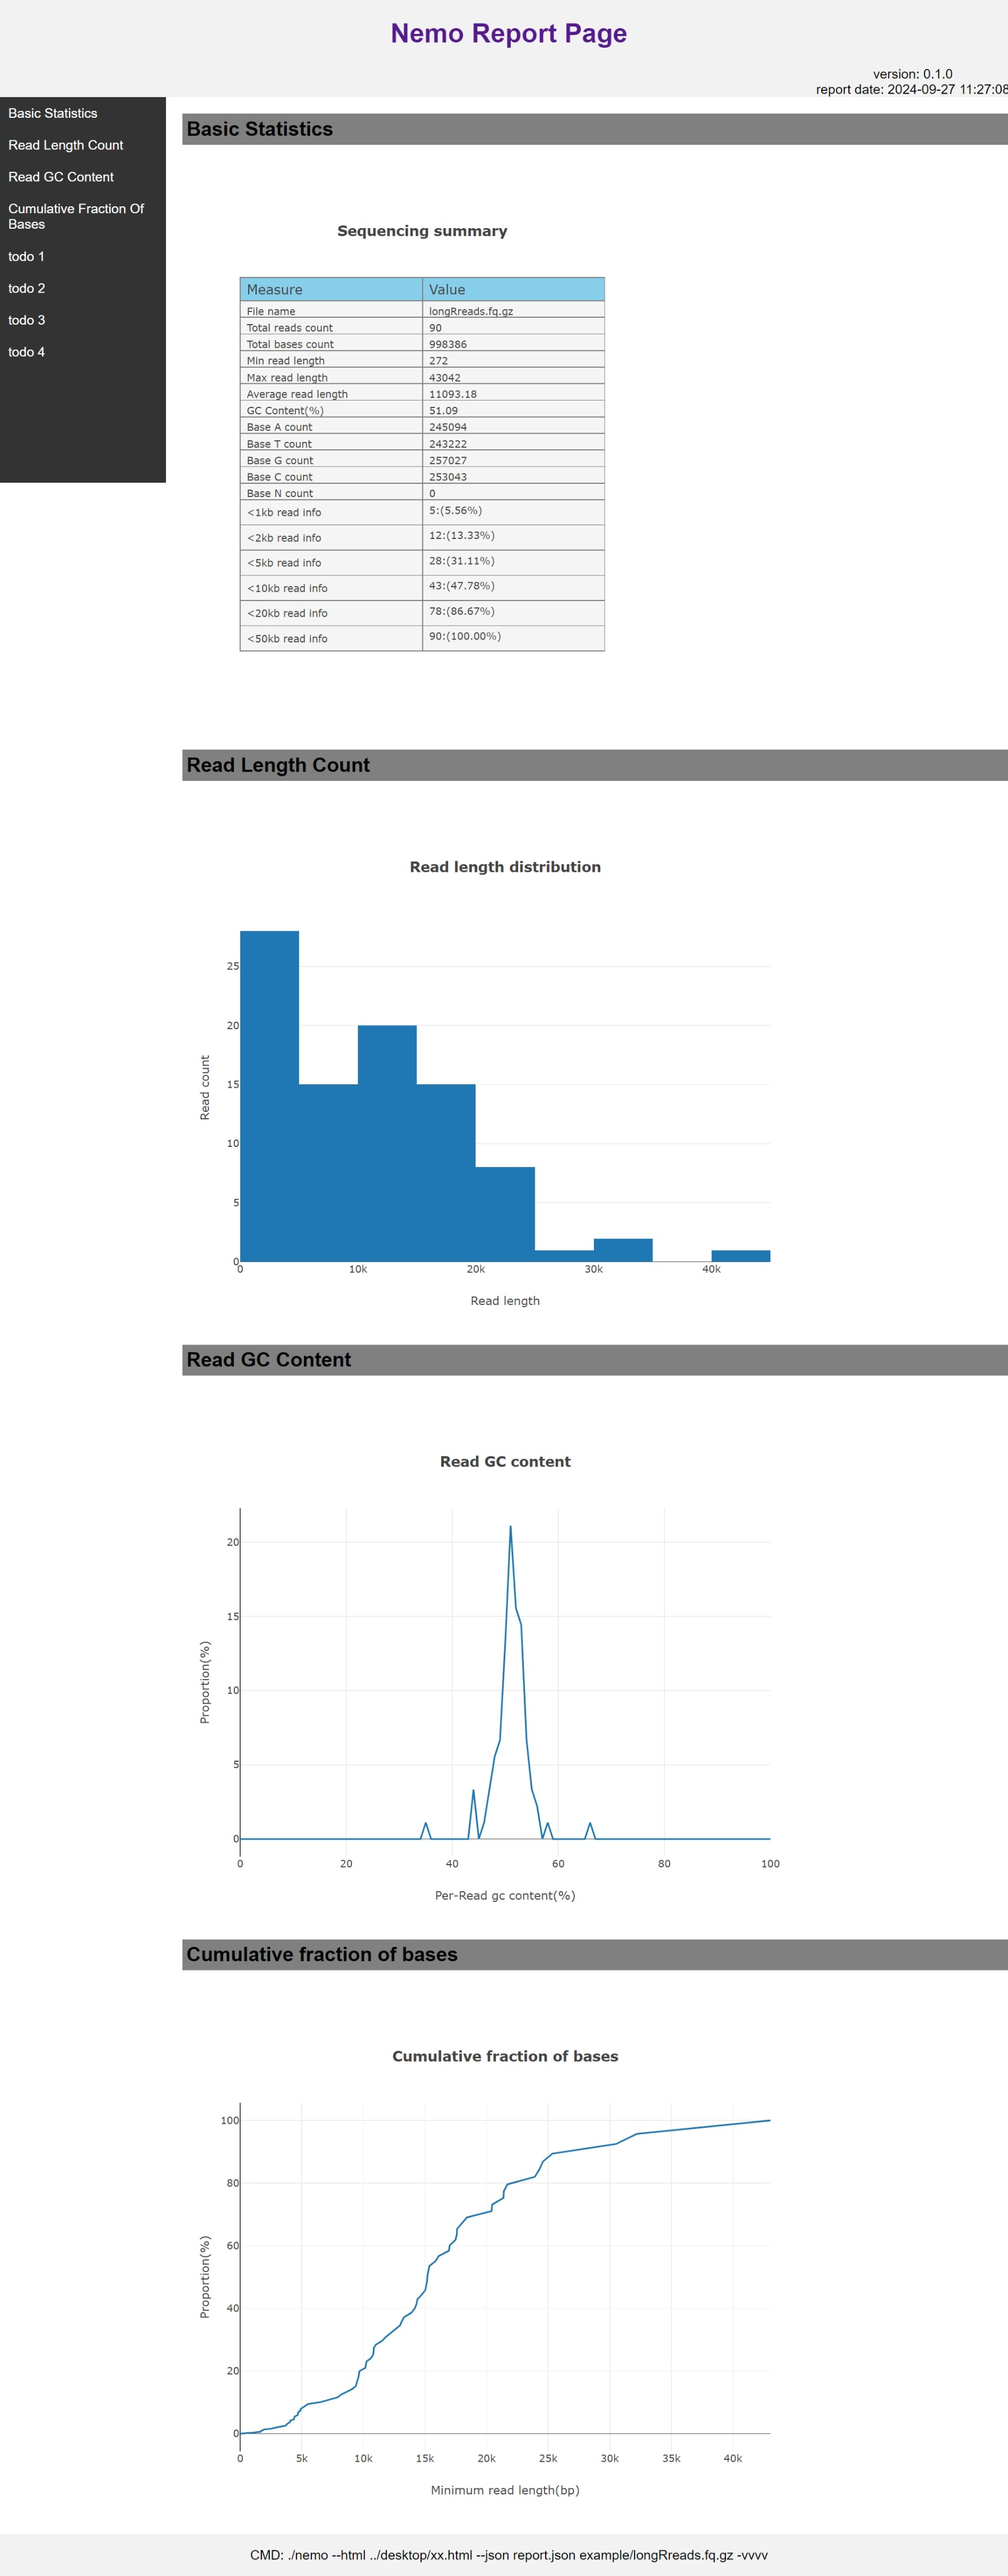
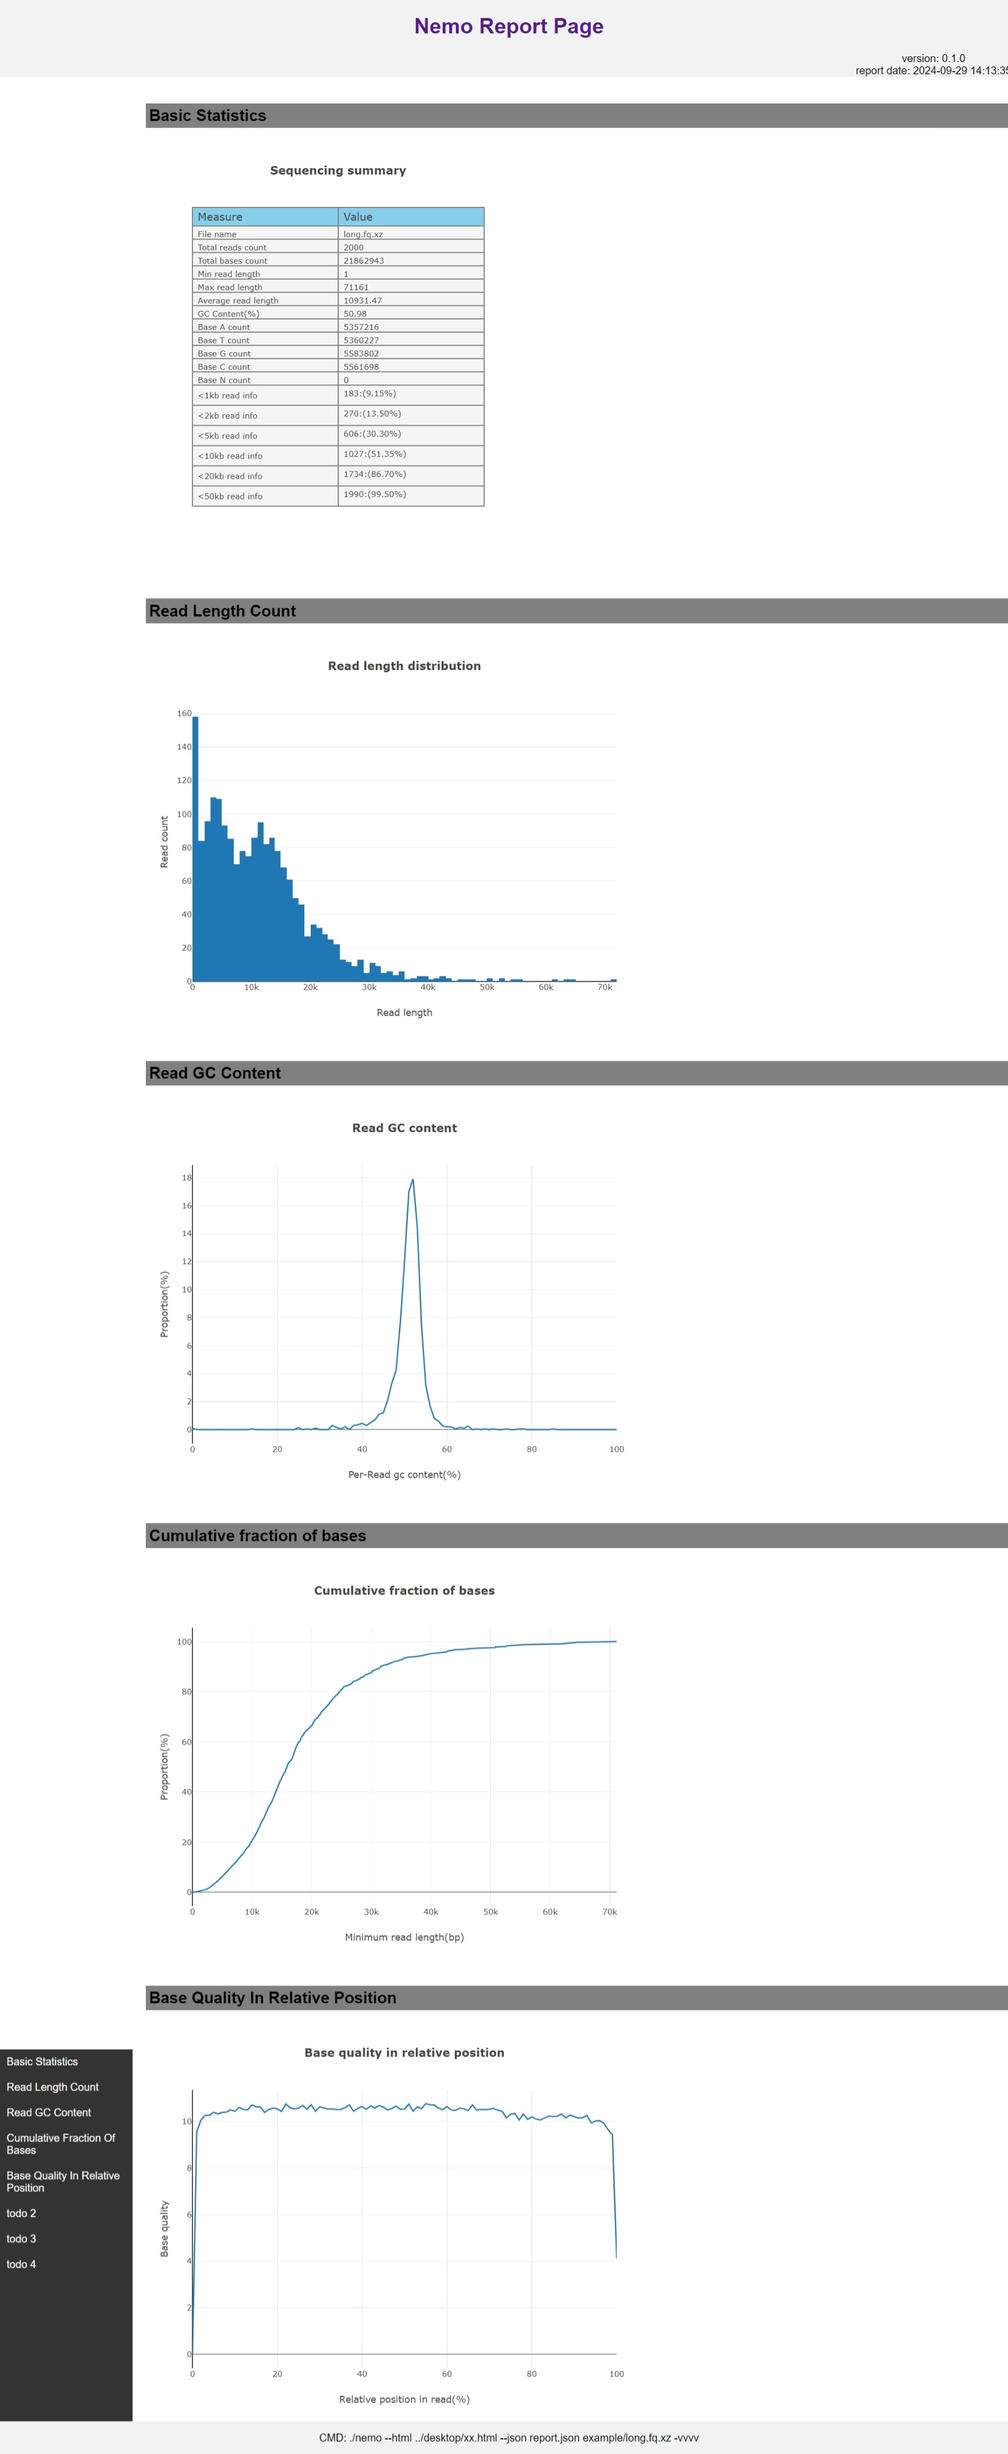
add relative  read pos plot in html

diff --git a/templates/template.html b/templates/template.html
@@ -43,7 +43,8 @@
             /* Same as sidebar width */
             padding: 0px 10px;
         }
-        .main-content .section {
+
+        .main-content .image-container {
             text-align: center;
         }
 
@@ -68,7 +69,7 @@
         .image-container {
             /* text-align: center; */
             margin: auto;
-            margin-top: 20px;
+            margin-top: 40px;
         }
 
         h2 {
@@ -76,11 +77,6 @@
             margin-left: 10px;
             padding: 5px;
             background-color: gray;
-        }
-
-        .section {
-            margin-top: 60px;
-            /* Adjust this value to prevent jumping effect */
         }
     </style>
 </head>
@@ -102,7 +98,7 @@
         <a href="#Read_Length">Read Length Count</a>
         <a href="#Read_GC_Content">Read GC Content</a>
         <a href="#Cumulative_Base">Cumulative Fraction Of Bases</a>
-        <a href="#section5">todo 1</a>
+        <a href="#Relative_pos_in_read">Base Quality In Relative Position</a>
         <a href="#section6">todo 2</a>
         <a href="#section7">todo 3</a>
         <a href="#section8">todo 4</a>
@@ -110,43 +106,36 @@
     </div>
 
     <div class="main-content">
-        <h2>Basic Statistics</h2>
-        <!-- <p>This is the content for section 1.</p> -->
-        <div id="Basic_Statistics" class="section">
-            <div class="image-container">
-                {{basic_statistics}}
-            </div>
+        <div class="image-container">
+            <h2>Basic Statistics</h2>
+            {{basic_statistics}}
         </div>
 
-        <h2>Read Length Count</h2>
-        <!-- <p>This is the content for section 2.</p> -->
-        <div id="Read_Length" class="section">
-            <div class="image-container">
-                {{read_length_hist}}
-            </div>
+        <div class="image-container">
+            <h2>Read Length Count</h2>
+            {{read_length_hist}}
         </div>
 
-        <h2>Read GC Content</h2>
-        <!-- <p>This is the content for section 3.</p> -->
-        <div id="Read_GC_Content" class="section">
-            <div class="image-container">
-                {{per_read_gc}}
-            </div>
+        <div class="image-container">
+            <h2>Read GC Content</h2>
+            {{per_read_gc}}
         </div>
 
-        <h2>Cumulative fraction of bases</h2>
-        <!-- <p>This is the content for section 3.</p> -->
-        <div id="Cumulative_Base" class="section"></div>
-            <div class="image-container">
-                {{cumu_base}}
-            </div>
+        <div class="image-container">
+            <h2>Cumulative fraction of bases</h2>
+            {{cumu_base}}
+        </div>
+
+        <div class="image-container">
+            <h2>Base Quality In Relative Position</h2>
+            {{relative_pos_read}}
         </div>
 
         <!-- Add more sections as needed -->
     </div>
 
     <div class="footer">
-        <p>CMD:  {{cmd}}</p>
+        <p>CMD: {{cmd}}</p>
     </div>
 
 </body>

diff --git a/example/report.html b/example/report.html
@@ -93,7 +93,7 @@
         </a>
         <div id="info">
             version: 0.1.0<br>
-            report date: 2024-09-27 11:27:39
+            report date: 2024-09-29 11:34:53
         </div>
     </div>
 

diff --git a/src/report.rs b/src/report.rs
@@ -1,9 +1,5 @@
 use plotly::{
-    Histogram, Layout, Plot, Scatter,
-    common::{Font,Mode},
-    layout::Axis,
-    color::NamedColor,
-    traces::table::{Cells, Header, Table, Fill}
+    color::NamedColor, common::{Font,Mode}, layout::Axis, traces::table::{Cells, Fill, Header, Table}, Histogram, Layout, Plot, Scatter
 };
 use askama::Template;
 use crate::error::NemoError;
@@ -22,6 +18,7 @@ struct Report {
     read_length_hist: String,
     per_read_gc: String,
     cumu_base: String,
+    relative_pos_read: String,
     cmd: String,
 }
 
@@ -30,6 +27,7 @@ pub fn summary(
     data: Rec,
     length_hash: HashMap<usize,usize>,
     gc_hash: HashMap<u64,u64>,
+    qual_relative_vec: Vec<Vec<u8>>,
     html: &str,
     cmd_txt: String, 
 ) -> Result<(), NemoError> {
@@ -37,6 +35,7 @@ pub fn summary(
     let tb1_div = basic_statistics(data.clone())?;
     let (cumu_plot_div, length_plot_div) = length_plot(length_hash, data.bases)?;
     let gc_plot_div = gc_plot(gc_hash)?;
+    let qual_relative_div = relavte_qual(qual_relative_vec)?;
 
     let mut writer = file_writer(Some(html), 0u32)?;
     let now: DateTime<Local> = Local::now();
@@ -48,6 +47,7 @@ pub fn summary(
         read_length_hist: length_plot_div, 
         per_read_gc: gc_plot_div,
         cumu_base: cumu_plot_div,
+        relative_pos_read: qual_relative_div,
         cmd: cmd_txt,
     };
     writer.write_all(report.to_string().as_bytes())?;
@@ -183,3 +183,52 @@ fn gc_plot(
     Ok(plot_div)
 }
 
+fn relavte_qual(
+    data: Vec<Vec<u8>>,
+) -> Result<String, NemoError> {
+    let mut total_error: Vec<f64> = vec![0.;100];
+    let read_count = data.len() as f64;
+    // let mut qual_max: Vec<u8> =  vec![0; 100];
+    // let mut qual_min: Vec<u8> = vec![255;100];
+    for row in data.iter() {
+        for (idx,qual) in row.iter().enumerate() {
+            total_error[idx] += qual_error(qual);
+            // if *qual > qual_max[idx] {
+            //     qual_max[idx] = *qual - 33 ;
+            // }
+            // if *qual < qual_min[idx] {
+            //     qual_min[idx] = *qual - 33;
+            // }
+        }
+    }
+    let mut qual_mean = total_error.iter().map(|e| -10.0 * (e / read_count).log10()).collect::<Vec<f64>>();
+    qual_mean.insert(0, 0.0);
+    let data_x = (0..=100).into_iter().collect::<Vec<u32>>();
+    // qual_max.insert(0, 0);
+    // qual_min.insert(0, 0);
+
+
+    let mut plot = Plot::new();
+    let relative_plot = Scatter::new(data_x.clone(), qual_mean).mode(Mode::Lines).name("Mean");
+    plot.add_trace(relative_plot);
+    // let q_max = Scatter::new(data_x.clone(), qual_max).mode(Mode::Lines).name("MAX");
+    // plot.add_trace(q_max);
+    // let q_min = Scatter::new(data_x, qual_min).mode(Mode::Lines).name("MIN");
+    // plot.add_trace(q_min);
+
+    plot.set_layout(Layout::new()
+        .title("<b>Base quality in relative position</b>")
+        .x_axis(Axis::new().title("Relative position in read(%)"))
+        .y_axis(Axis::new().title("Mean base quality"))
+        .auto_size(false)
+        .width(800)
+        .height(600)
+    );
+    let plot_div = plot.to_inline_html(Some("Relative_pos_in_read"));
+   
+    Ok(plot_div)
+}
+
+fn qual_error(qual: &u8) -> f64 {
+    10.0f64.powf((qual - 33) as f64 / -10.0)
+}

diff --git a/src/process.rs b/src/process.rs
@@ -2,6 +2,7 @@ use std::{collections::HashMap, path::PathBuf};
 use crate::{error::NemoError, utils::{file_reader, file_writer}};
 use bio::io::fastq::Reader;
 use serde::{Deserialize, Serialize};
+use log::error;
 
 #[derive(Debug,Clone, Serialize,Deserialize)]
 pub struct Rec {
@@ -53,7 +54,7 @@ pub fn statfq(
     file: Option<PathBuf>,
     json_file: Option<&str>,
     compression_level: u32, 
-) -> Result<(Rec, HashMap<usize, usize>, HashMap<u64,u64>), NemoError> {
+) -> Result<(Rec, HashMap<usize, usize>, HashMap<u64,u64>, Vec<Vec<u8>>), NemoError> {
     
     let file_name = file.clone();
     let mut info = Rec::new();
@@ -63,6 +64,7 @@ pub fn statfq(
     }
     let mut length_hash: HashMap<usize, usize> = HashMap::new();
     let mut gc_hash: HashMap<u64,u64> = HashMap::new();
+    let mut qual_relative_vec: Vec<Vec<u8>> = vec![]; 
 
     let reader = Reader::new(file_reader(file)?);
     for rec in reader.records().map_while(Result::ok) {
@@ -103,9 +105,21 @@ pub fn statfq(
                 b'G' => info.nt_g += 1,
                 b'C' => info.nt_c += 1,
                 b'N' => info.nt_n += 1,
-                _ => eprintln!("error base in read: {}",rec.id())
+                _ => error!("error base in read: {}",rec.id())
             }
         }
+
+        let mut qual_relative_pos = vec![];
+        for i in 1usize..=100 {
+            let idx = if i == 100 { len -1 } else {
+                let ret = (len as f64 * (i as f64/ 100 as f64) ) as usize;
+                if ret == 0 { ret } else {ret -1 };
+                ret
+            };
+            qual_relative_pos.push(rec.qual()[idx]);
+        }
+        qual_relative_vec.push(qual_relative_pos);
+        
     }
 
     info.min_len = min_len.unwrap();
@@ -116,6 +130,6 @@ pub fn statfq(
     writer.write_all(str_json.as_bytes())?;
     writer.flush()?;
 
-    Ok((info,length_hash, gc_hash))
+    Ok((info,length_hash, gc_hash, qual_relative_vec))
 }
 

diff --git a/src/main.rs b/src/main.rs
@@ -22,8 +22,8 @@ fn main() -> Result<(), NemoError>{
     let start = Instant::now();
     info!("nemo version: {}",VERSION);
     
-    let (content, length_hash, gc_hash )= statfq(cmd.input, Some(&cmd.json), cmd.compression_level)?;
-    summary(content, length_hash, gc_hash, &cmd.html, cmd_txt)?;
+    let (content, length_hash, gc_hash, qual_relative_vec)= statfq(cmd.input, Some(&cmd.json), cmd.compression_level)?;
+    summary(content, length_hash, gc_hash, qual_relative_vec, &cmd.html, cmd_txt)?;
 
     info!("time elapsed is: {:?}", start.elapsed());
     Ok(())

diff --git a/README.md b/README.md
@@ -52,7 +52,7 @@ Options:
 Use "nemo --help" for more information
 ```
 
-#### report page view
+## report page view
 ![](example/report.jpeg)
 
 #### ** any bugs please report issues **💖
